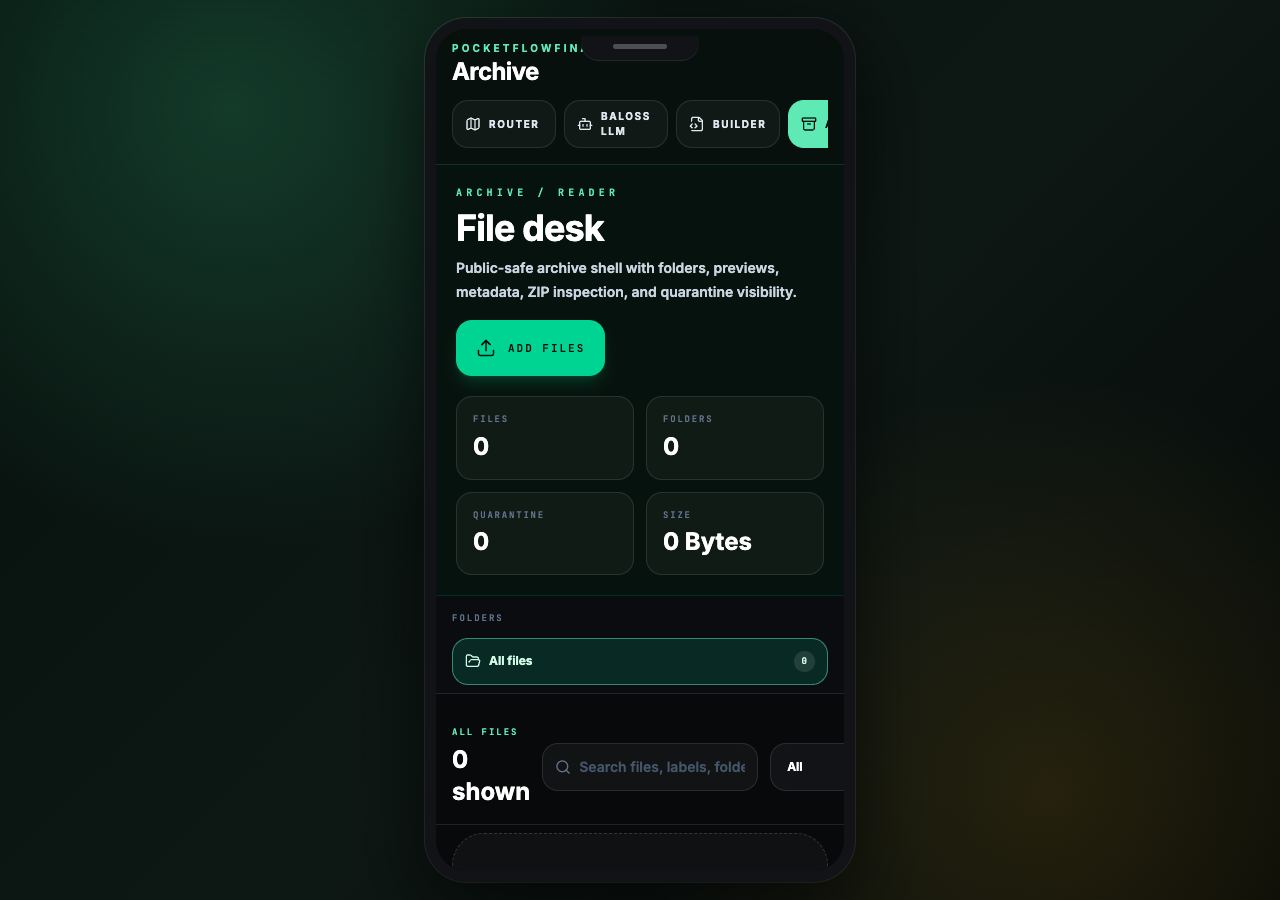
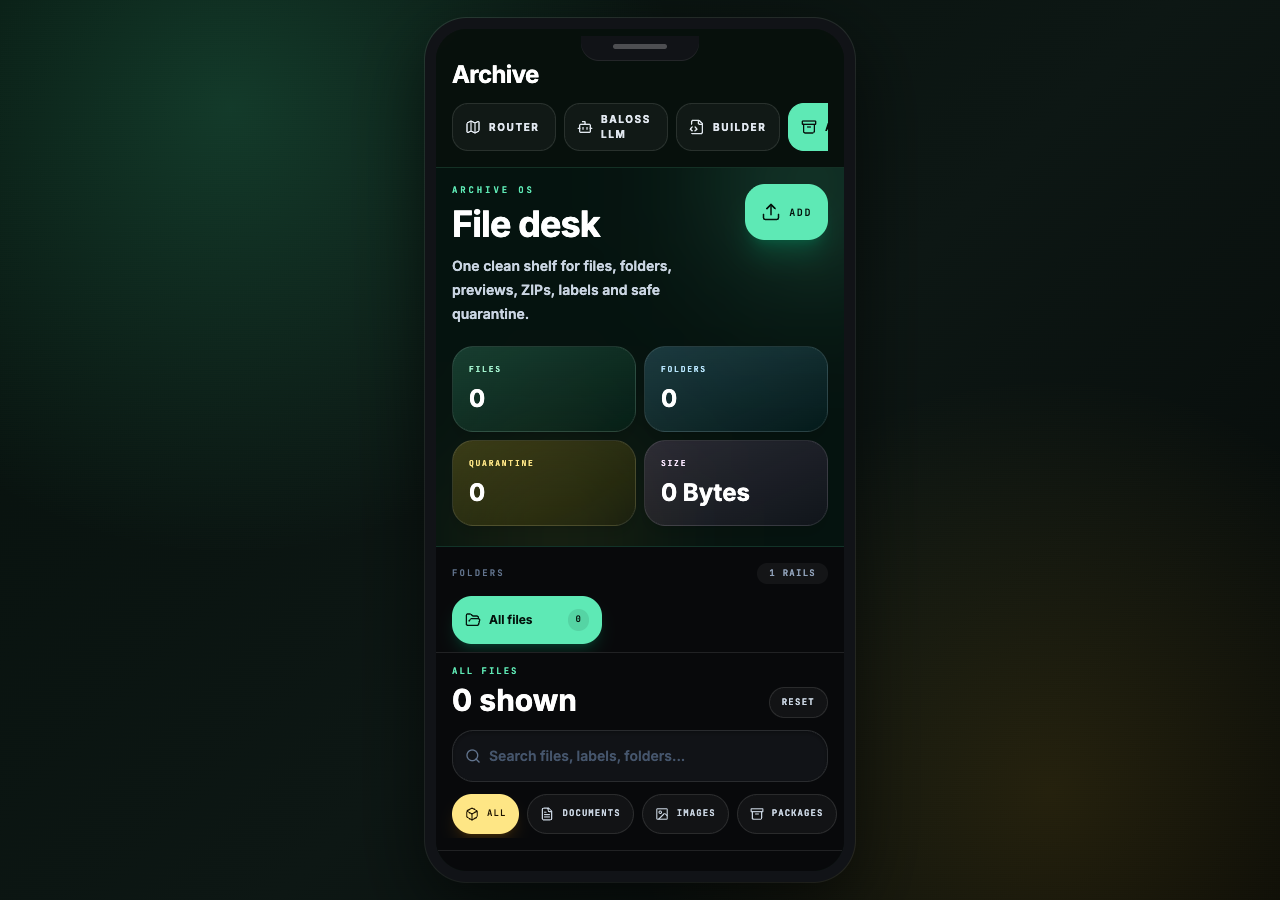
Redesign archive phone UI and scrolling

diff --git a/receive-hub/src/components/ArchivePublicApp.tsx b/receive-hub/src/components/ArchivePublicApp.tsx
@@ -159,7 +159,7 @@ export default function ArchivePublicApp({
   }
 
   return (
-    <section className="flex min-h-0 flex-1 flex-col overflow-hidden bg-[#080f0c] text-white">
+    <section className="min-h-0 flex-1 overflow-y-auto bg-[#070b09] text-white">
       <input
         ref={inputRef}
         type="file"
@@ -171,44 +171,53 @@ export default function ArchivePublicApp({
         }}
       />
 
-      <div className="shrink-0 border-b border-emerald-400/15 bg-[#06120d] px-5 py-5">
-        <div className="flex flex-wrap items-start justify-between gap-4">
-          <div>
-            <p className="font-mono text-[10px] font-black uppercase tracking-[0.42em] text-emerald-300">Archive / Reader</p>
-            <h2 className="mt-2 text-4xl font-black tracking-tight">File desk</h2>
-            <p className="mt-2 max-w-2xl text-sm font-semibold leading-6 text-slate-300">
-              Public-safe archive shell with folders, previews, metadata, ZIP inspection, and quarantine visibility.
-            </p>
-          </div>
-          <button
-            type="button"
-            onClick={() => inputRef.current?.click()}
-            className="inline-flex h-14 items-center gap-3 rounded-2xl bg-emerald-400 px-5 text-[11px] font-mono font-black uppercase tracking-[0.18em] text-[#04110b] shadow-lg shadow-emerald-500/20"
-          >
-            <Upload className="h-5 w-5" />
-            Add files
-          </button>
-        </div>
-
-        <div className="mt-5 grid grid-cols-2 gap-3 md:grid-cols-4">
-          {[
-            ["Files", liveFiles.length.toString()],
-            ["Folders", Math.max(folders.length - 1, 0).toString()],
-            ["Quarantine", quarantineCount.toString()],
-            ["Size", formatBytes(totalSize)],
-          ].map(([label, value]) => (
-            <div key={label} className="rounded-2xl border border-white/10 bg-white/[0.04] p-4">
-              <div className="font-mono text-[9px] font-black uppercase tracking-[0.2em] text-slate-500">{label}</div>
-              <div className="mt-1 text-2xl font-black">{value}</div>
+      <div className="relative overflow-hidden border-b border-emerald-300/15 bg-[#05130f] px-4 pb-5 pt-4">
+        <div className="absolute -right-16 -top-20 h-48 w-48 rounded-full bg-emerald-300/20 blur-3xl" />
+        <div className="absolute -bottom-20 left-8 h-44 w-44 rounded-full bg-amber-300/10 blur-3xl" />
+        <div className="relative">
+          <div className="flex items-start justify-between gap-3">
+            <div className="min-w-0">
+              <p className="font-mono text-[9px] font-black uppercase tracking-[0.32em] text-emerald-300">Archive OS</p>
+              <h2 className="mt-2 text-4xl font-black leading-none tracking-tight">File desk</h2>
+              <p className="mt-3 text-sm font-semibold leading-6 text-slate-300">
+                One clean shelf for files, folders, previews, ZIPs, labels and safe quarantine.
+              </p>
             </div>
-          ))}
+            <button
+              type="button"
+              onClick={() => inputRef.current?.click()}
+              className="inline-flex h-14 shrink-0 items-center gap-2 rounded-[1.25rem] bg-emerald-300 px-4 text-[10px] font-mono font-black uppercase tracking-[0.16em] text-[#03130c] shadow-xl shadow-emerald-500/20 active:scale-95"
+            >
+              <Upload className="h-5 w-5" />
+              Add
+            </button>
+          </div>
+
+          <div className="mt-5 grid grid-cols-2 gap-2">
+            {[
+              ["Files", liveFiles.length.toString(), "from-emerald-300/20 to-emerald-500/5", "text-emerald-200"],
+              ["Folders", Math.max(folders.length - 1, 0).toString(), "from-sky-300/20 to-sky-500/5", "text-sky-200"],
+              ["Quarantine", quarantineCount.toString(), "from-amber-300/20 to-amber-500/5", "text-amber-200"],
+              ["Size", formatBytes(totalSize), "from-fuchsia-300/15 to-fuchsia-500/5", "text-fuchsia-100"],
+            ].map(([label, value, gradient, color]) => (
+              <div key={label} className={`rounded-[1.35rem] border border-white/10 bg-gradient-to-br ${gradient} p-4 shadow-lg shadow-black/10`}>
+                <div className={`font-mono text-[8px] font-black uppercase tracking-[0.22em] ${color}`}>{label}</div>
+                <div className="mt-2 truncate text-2xl font-black">{value}</div>
+              </div>
+            ))}
+          </div>
         </div>
       </div>
 
-      <div className="grid min-h-0 flex-1 grid-cols-1 overflow-hidden md:grid-cols-[240px_1fr]">
-        <aside className="min-h-0 overflow-auto border-b border-white/10 bg-[#0b0c10] p-4 md:border-b-0 md:border-r">
-          <div className="font-mono text-[9px] font-black uppercase tracking-[0.22em] text-slate-500">Folders</div>
-          <div className="mt-3 space-y-2">
+      <div className="bg-[#08090b] px-4 pb-28">
+        <section className="pt-4">
+          <div className="flex items-center justify-between">
+            <div className="font-mono text-[9px] font-black uppercase tracking-[0.24em] text-slate-500">Folders</div>
+            <div className="rounded-full bg-white/[0.05] px-3 py-1 font-mono text-[9px] font-black uppercase tracking-[0.14em] text-slate-400">
+              {folders.length} rails
+            </div>
+          </div>
+          <div className="-mx-4 mt-3 flex snap-x gap-2 overflow-x-auto px-4 pb-2">
             {folders.map((folder) => {
               const count = folder === "/" ? liveFiles.length : liveFiles.filter((file) => smartFolderPath(file) === folder).length;
               const active = selectedFolder === folder;
@@ -217,94 +226,139 @@ export default function ArchivePublicApp({
                   key={folder}
                   type="button"
                   onClick={() => setSelectedFolder(folder)}
-                  className={`flex w-full items-center justify-between rounded-2xl border px-3 py-3 text-left transition ${
-                    active ? "border-emerald-300/50 bg-emerald-400/15 text-emerald-100" : "border-white/10 bg-white/[0.03] text-slate-300"
+                  className={`flex min-w-[150px] snap-start items-center justify-between rounded-[1.25rem] border px-3 py-3 text-left transition ${
+                    active
+                      ? "border-emerald-300/70 bg-emerald-300 text-[#03130c] shadow-lg shadow-emerald-500/20"
+                      : "border-white/10 bg-white/[0.04] text-slate-200 active:bg-white/[0.08]"
                   }`}
                 >
                   <span className="inline-flex min-w-0 items-center gap-2">
                     <FolderOpen className="h-4 w-4 shrink-0" />
                     <span className="truncate text-xs font-black">{folderLabel(folder)}</span>
                   </span>
-                  <span className="rounded-full bg-white/10 px-2 py-1 font-mono text-[9px] font-black">{count}</span>
+                  <span className={`rounded-full px-2 py-1 font-mono text-[9px] font-black ${active ? "bg-[#03130c]/10" : "bg-white/10"}`}>{count}</span>
                 </button>
               );
             })}
           </div>
-        </aside>
+        </section>
 
-        <main className="min-h-0 overflow-auto bg-[#08090b] p-4 pb-24">
-          <div className="sticky top-0 z-10 -mx-4 -mt-4 border-b border-white/10 bg-[#08090b]/95 p-4 backdrop-blur">
-            <div className="flex flex-col gap-3 lg:flex-row lg:items-center lg:justify-between">
-              <div>
-                <div className="font-mono text-[9px] font-black uppercase tracking-[0.22em] text-emerald-300">{folderLabel(selectedFolder)}</div>
-                <h3 className="mt-1 text-2xl font-black">{visibleFiles.length} shown</h3>
-              </div>
-              <div className="flex flex-1 flex-col gap-3 sm:flex-row lg:max-w-2xl">
-                <label className="flex h-12 flex-1 items-center gap-2 rounded-2xl border border-white/10 bg-white/[0.04] px-3">
-                  <Search className="h-4 w-4 text-slate-500" />
-                  <input
-                    value={query}
-                    onChange={(event) => setQuery(event.target.value)}
-                    placeholder="Search files, labels, folders..."
-                    className="min-w-0 flex-1 bg-transparent text-sm font-semibold text-white outline-none placeholder:text-slate-600"
-                  />
-                </label>
-                <select
-                  value={kindFilter}
-                  onChange={(event) => setKindFilter(event.target.value as ArchiveKind)}
-                  className="h-12 rounded-2xl border border-white/10 bg-[#111317] px-3 text-xs font-black text-white outline-none"
-                >
-                  {ARCHIVE_FILTERS.map((filter) => <option key={filter.id} value={filter.id}>{filter.label}</option>)}
-                </select>
-              </div>
+        <section className="sticky top-0 z-20 -mx-4 border-y border-white/10 bg-[#08090b]/95 px-4 py-3 backdrop-blur-xl">
+          <div className="flex items-end justify-between gap-3">
+            <div>
+              <div className="font-mono text-[9px] font-black uppercase tracking-[0.22em] text-emerald-300">{folderLabel(selectedFolder)}</div>
+              <h3 className="mt-1 text-3xl font-black">{visibleFiles.length} shown</h3>
             </div>
+            <button
+              type="button"
+              onClick={() => {
+                setQuery("");
+                setKindFilter("all");
+                setSelectedFolder("/");
+              }}
+              className="rounded-full border border-white/10 bg-white/[0.04] px-3 py-2 font-mono text-[9px] font-black uppercase tracking-[0.14em] text-slate-300"
+            >
+              Reset
+            </button>
           </div>
+          <label className="mt-3 flex h-13 items-center gap-2 rounded-[1.35rem] border border-white/10 bg-[#111317] px-3 shadow-inner shadow-black/30">
+            <Search className="h-4 w-4 text-slate-500" />
+            <input
+              value={query}
+              onChange={(event) => setQuery(event.target.value)}
+              placeholder="Search files, labels, folders..."
+              className="min-w-0 flex-1 bg-transparent text-sm font-semibold text-white outline-none placeholder:text-slate-600"
+            />
+          </label>
+          <div className="-mx-4 mt-3 flex gap-2 overflow-x-auto px-4 pb-1">
+            {ARCHIVE_FILTERS.map((filter) => {
+              const Icon = iconForKind(filter.id);
+              const active = kindFilter === filter.id;
+              return (
+                <button
+                  key={filter.id}
+                  type="button"
+                  onClick={() => setKindFilter(filter.id)}
+                  className={`inline-flex h-10 shrink-0 items-center gap-2 rounded-full border px-3 font-mono text-[9px] font-black uppercase tracking-[0.12em] transition ${
+                    active
+                      ? "border-amber-200/80 bg-amber-200 text-[#1d1300] shadow-lg shadow-amber-500/15"
+                      : "border-white/10 bg-white/[0.04] text-slate-300"
+                  }`}
+                >
+                  <Icon className="h-3.5 w-3.5" />
+                  {filter.label}
+                </button>
+              );
+            })}
+          </div>
+        </section>
 
-          {visibleFiles.length === 0 ? (
-            <div className="mt-6 rounded-[2rem] border border-dashed border-white/15 bg-white/[0.03] p-10 text-center">
-              <PackageSearch className="mx-auto h-10 w-10 text-slate-500" />
-              <h4 className="mt-4 text-2xl font-black">No files in this view</h4>
-              <p className="mx-auto mt-2 max-w-md text-sm font-semibold leading-6 text-slate-400">
-                Add public demo files, switch folder, or clear filters. Private phone data is intentionally not bundled in this repository.
-              </p>
+        {visibleFiles.length === 0 ? (
+          <div className="mt-5 overflow-hidden rounded-[2rem] border border-white/10 bg-gradient-to-br from-white/[0.07] to-white/[0.02] p-6 text-center shadow-xl shadow-black/20">
+            <div className="mx-auto flex h-16 w-16 items-center justify-center rounded-[1.5rem] border border-emerald-300/20 bg-emerald-300/10">
+              <PackageSearch className="h-8 w-8 text-emerald-200" />
             </div>
-          ) : (
-            <div className="mt-4 grid gap-3 xl:grid-cols-2">
-              {visibleFiles.map((file) => {
-                const kind = archiveKind(file);
-                const Icon = iconForKind(kind);
-                const tracker = file.metadata?.tracker as { code?: string; label?: string; color?: string } | undefined;
-                return (
-                  <button
-                    key={file.id}
-                    type="button"
-                    onClick={() => openFile(file, isQuarantined(file) ? "metadata" : "preview")}
-                    className="group rounded-[1.5rem] border border-white/10 bg-[#111317] p-4 text-left transition hover:-translate-y-0.5 hover:border-emerald-300/40 hover:bg-[#142019]"
-                  >
-                    <div className="flex items-start gap-3">
-                      <span className={`flex h-12 w-12 shrink-0 items-center justify-center rounded-2xl border ${
-                        kind === "quarantine" ? "border-amber-300/30 bg-amber-400/10 text-amber-200" : "border-emerald-300/20 bg-emerald-400/10 text-emerald-200"
-                      }`}>
-                        <Icon className="h-5 w-5" />
+            <h4 className="mt-4 text-2xl font-black">No files here</h4>
+            <p className="mx-auto mt-2 max-w-sm text-sm font-semibold leading-6 text-slate-400">
+              Add a public demo file, switch folder, or clear filters. Private phone data is intentionally not bundled.
+            </p>
+            <button
+              type="button"
+              onClick={() => inputRef.current?.click()}
+              className="mt-5 inline-flex h-12 items-center gap-2 rounded-2xl bg-emerald-300 px-5 font-mono text-[10px] font-black uppercase tracking-[0.16em] text-[#03130c]"
+            >
+              <Upload className="h-4 w-4" />
+              Add files
+            </button>
+          </div>
+        ) : (
+          <div className="mt-4 grid gap-3">
+            {visibleFiles.map((file) => {
+              const kind = archiveKind(file);
+              const Icon = iconForKind(kind);
+              const tracker = file.metadata?.tracker as { code?: string; label?: string; color?: string } | undefined;
+              const quarantine = isQuarantined(file);
+              return (
+                <button
+                  key={file.id}
+                  type="button"
+                  onClick={() => openFile(file, quarantine ? "metadata" : "preview")}
+                  className={`group rounded-[1.6rem] border p-4 text-left shadow-lg shadow-black/15 transition active:scale-[0.99] ${
+                    quarantine
+                      ? "border-amber-300/25 bg-amber-300/10"
+                      : "border-white/10 bg-[#111317] hover:border-emerald-300/40"
+                  }`}
+                >
+                  <div className="flex items-start gap-3">
+                    <span className={`flex h-13 w-13 shrink-0 items-center justify-center rounded-[1.15rem] border ${
+                      quarantine ? "border-amber-300/30 bg-amber-400/10 text-amber-200" : "border-emerald-300/20 bg-emerald-400/10 text-emerald-200"
+                    }`}>
+                      <Icon className="h-5 w-5" />
+                    </span>
+                    <span className="min-w-0 flex-1">
+                      <span className="block truncate text-base font-black text-white">{file.name}</span>
+                      <span className="mt-1 block truncate font-mono text-[9px] font-black uppercase tracking-[0.16em] text-slate-500">
+                        {folderLabel(smartFolderPath(file))} / {file.extension || "file"} / {formatBytes(file.size)}
                       </span>
-                      <span className="min-w-0 flex-1">
-                        <span className="block truncate text-base font-black text-white">{file.name}</span>
-                        <span className="mt-1 block truncate font-mono text-[9px] font-black uppercase tracking-[0.16em] text-slate-500">
-                          {folderLabel(smartFolderPath(file))} / {file.extension || "file"} / {formatBytes(file.size)}
+                      <span className="mt-3 flex flex-wrap gap-2">
+                        <span className={`rounded-full px-2.5 py-1 font-mono text-[9px] font-black uppercase tracking-[0.12em] ${
+                          quarantine ? "bg-amber-300/15 text-amber-200" : "bg-emerald-300/10 text-emerald-200"
+                        }`}>
+                          {kind}
                         </span>
                         {tracker?.code && (
-                          <span className="mt-2 inline-flex rounded-full border border-white/10 bg-white/[0.05] px-2 py-1 font-mono text-[9px] font-black uppercase tracking-[0.12em] text-slate-300">
+                          <span className="rounded-full border border-white/10 bg-white/[0.05] px-2.5 py-1 font-mono text-[9px] font-black uppercase tracking-[0.12em] text-slate-300">
                             {tracker.code}
                           </span>
                         )}
                       </span>
-                    </div>
-                  </button>
-                );
-              })}
-            </div>
-          )}
-        </main>
+                    </span>
+                  </div>
+                </button>
+              );
+            })}
+          </div>
+        )}
       </div>
     </section>
   );

diff --git a/receive-hub/src/index.css b/receive-hub/src/index.css
@@ -287,6 +287,10 @@ html.lakehouse-public-document #root {
   background: #07100c;
 }
 
+.pf-public-phone-screen > div > header {
+  padding-top: 30px;
+}
+
 .pf-public-phone-screen .sm\:block {
   display: none !important;
 }
@@ -345,6 +349,10 @@ html.lakehouse-public-document #root {
 
   .pf-public-phone-screen {
     border-radius: 0;
+  }
+
+  .pf-public-phone-screen > div > header {
+    padding-top: 0.75rem;
   }
 }
 

diff --git a/receive-hub/src/App.tsx b/receive-hub/src/App.tsx
@@ -200,7 +200,6 @@ export default function App() {
         <header className="sticky top-0 z-40 border-b border-emerald-300/15 bg-[#07100c]/95 px-4 py-3 backdrop-blur">
           <div className="flex items-center justify-between gap-4">
             <div>
-              <p className="text-[10px] font-black uppercase tracking-[0.32em] text-emerald-300">PocketFlowFinal</p>
               <h1 className="text-2xl font-black tracking-tight">{activeMeta.label}</h1>
             </div>
             <div className="hidden rounded-2xl border border-emerald-300/20 bg-emerald-300/10 px-4 py-2 text-xs font-bold text-emerald-100 sm:block">